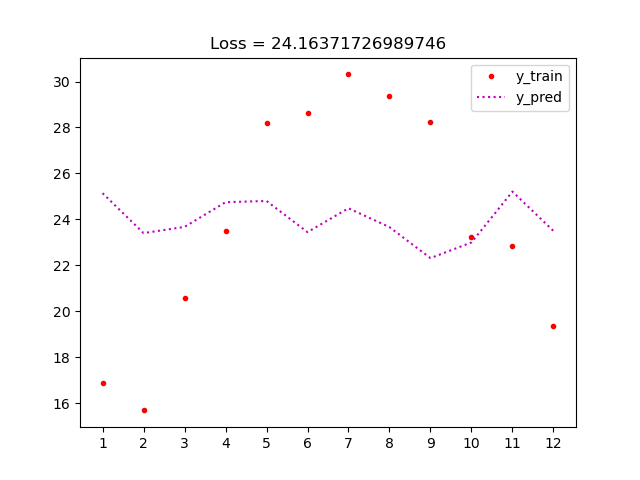
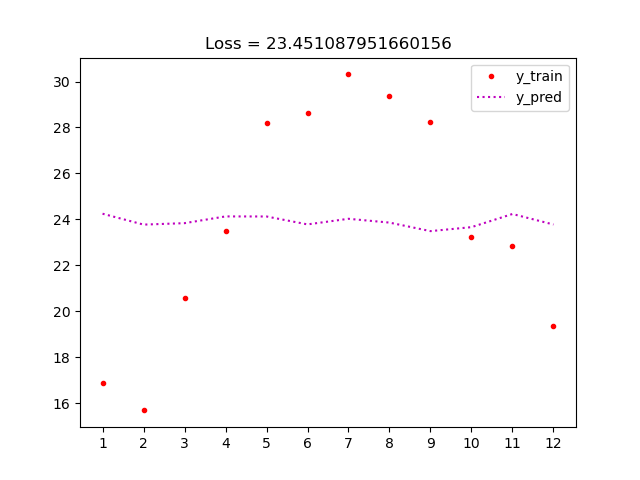
[NEW] Update lambda

diff --git a/weather/forecast.py b/weather/forecast.py
@@ -62,9 +62,8 @@ class Forcast:
         _list = [[_rand] for _ in range(len(self.train_x))]
         b = tf.Variable(_list, dtype=float)  # 12 x 1
 
-        _lambda = 1e-1
         optimizer = tf.optimizers.SGD(1e-7)
-
+        _lambda = 1e-2
         for _iter in range(10000):
             with tf.GradientTape() as tape:
                 y_hat = tf.add_n([tf.matmul(tf.pow(self.train_x, 2), w1), tf.matmul(self.train_x, w2), b])
@@ -73,21 +72,56 @@ class Forcast:
                     _lambda * tf.reduce_sum(tf.pow(w2, 2)) / (tf.reduce_sum(tf.pow(w1, 2)) + tf.reduce_sum(tf.pow(w2, 2)))
             gradients = tape.gradient(loss, [w1, w2, b])
             optimizer.apply_gradients(zip(gradients, [w1, w2, b]))
-
         self.y_pred1 = tf.add_n([tf.matmul(tf.pow(self.train_x, 2), w1), tf.matmul(self.train_x, w2), b])
         self.y_pred2 = tf.add_n([tf.matmul(tf.pow(self.test_x, 2), w1), tf.matmul(self.test_x, w2), b])
+
+        # _range = [float('1e{}'.format(exp)) for exp in np.linspace(-3,2,6, dtype=int)]
+        # for index, _lambda in enumerate(_range):
+        #     for _iter in range(10000):
+        #         with tf.GradientTape() as tape:
+        #             y_hat = tf.add_n([tf.matmul(tf.pow(self.train_x, 2), w1), tf.matmul(self.train_x, w2), b])
+        #             loss = tf.reduce_mean(tf.pow(y_hat - self.train_y, 2)) + \
+        #                 _lambda * tf.reduce_sum(tf.pow(w1, 2)) / (tf.reduce_sum(tf.pow(w1, 2)) + tf.reduce_sum(tf.pow(w2, 2))) + \
+        #                 _lambda * tf.reduce_sum(tf.pow(w2, 2)) / (tf.reduce_sum(tf.pow(w1, 2)) + tf.reduce_sum(tf.pow(w2, 2)))
+        #         gradients = tape.gradient(loss, [w1, w2, b])
+        #         optimizer.apply_gradients(zip(gradients, [w1, w2, b]))
+
+        #     self.y_pred1 = tf.add_n([tf.matmul(tf.pow(self.train_x, 2), w1), tf.matmul(self.train_x, w2), b])
+        #     self.y_pred2 = tf.add_n([tf.matmul(tf.pow(self.test_x, 2), w1), tf.matmul(self.test_x, w2), b])
+
+        #     if index == 0:
+        #         plt.plot(np.arange(1, 13), self.y_pred1, 'r:', label='lambda_{}'.format(_lambda))
+        #     if index == 1:
+        #         plt.plot(np.arange(1, 13), self.y_pred1, 'g:', label='lambda_{}'.format(_lambda))
+        #     if index == 2:
+        #         plt.plot(np.arange(1, 13), self.y_pred1, 'b:', label='lambda_{}'.format(_lambda))
+        #     if index == 3:
+        #         plt.plot(np.arange(1, 13), self.y_pred1, 'c:', label='lambda_{}'.format(_lambda))
+        #     if index == 4:
+        #         plt.plot(np.arange(1, 13), self.y_pred1, 'y:', label='lambda_{}'.format(_lambda))
+        #     if index == 5:
+        #         plt.plot(np.arange(1, 13), self.y_pred1, 'm:', label='lambda_{}'.format(_lambda))
+
+        #     loss = tf.reduce_mean(tf.pow(self.y_pred1 - self.train_y, 2))
+        #     print('Loss = {} with lambda {}'.format(loss, _lambda))
+
+        # plt.xticks(range(1, 13))
+        # plt.legend()
+        # plt.savefig(os.path.join(os.path.dirname(__file__), 'lambda.png'))
+        # plt.close()
 
     def draw(self, tag, _file):
         """Draw the figure"""
         if tag == 'train':
             plt.plot(np.arange(1, 13), self.train_y, 'r.', label='y_train')
             plt.plot(np.arange(1, 13), self.y_pred1, 'm:', label='y_pred')
-        if tag == 'test':
+            loss = tf.reduce_mean(tf.pow(self.y_pred1 - self.train_y, 2))
+        elif tag == 'test':
             plt.plot(np.arange(1, 13), self.real_y, 'bD', label='y_real')
             plt.plot(np.arange(1, 13), self.y_pred2, 'm:', label='y_pred')
+            loss = tf.reduce_mean(tf.pow(self.y_pred2 - self.real_y, 2))
         plt.xticks(range(1, 13))
-        plt.title('Loss = {}'.format(tf.reduce_mean(tf.pow(self.y_pred1 - self.train_y, 2))))
+        plt.title('Loss = {}'.format(loss))
         plt.legend()
-        _file = os.path.join(os.path.dirname(__file__), _file)
-        plt.savefig(_file)
-        plt.show()
+        plt.savefig(os.path.join(os.path.dirname(__file__), _file))
+        plt.close()

diff --git a/main.py b/main.py
@@ -3,53 +3,6 @@
 from weather import Forcast
 # from classification import Income
 
-# def test():
-#     X = np.random.rand(10).astype(np.float32)
-#     Y = X * 10 + 5
-#     W = tf.Variable(tf.random.normal([1]))
-#     b = tf.Variable(tf.zeros([1]))
-#     optimizer = tf.optimizers.Adagrad(0.1)
-#     for step in range(1, 1000 + 1):
-#         # Run the optimization to update W and b values.
-#         with tf.GradientTape() as tape:
-#             y_hat = W * X + b
-#             loss = tf.reduce_sum(tf.pow(y_hat-Y, 2)) / (2 * 10)
-#         gradients = tape.gradient(loss, [W, b])
-#         optimizer.apply_gradients(zip(gradients, [W, b]))
-#         if step % 10 == 0:
-#             print("step: %i, loss: %f, W: %f, b: %f" %
-#                   (step, loss, W.numpy(), b.numpy()))
-
-
-# def f(x):
-#     return x ** 2 * 2 + x * 3 + 4
-
-
-# def test():
-#     x = tf.constant([[2]], dtype=float)
-#     y = f(x)
-#     w1 = tf.Variable([np.random.rand(1)], dtype=float)
-#     w2 = tf.Variable([np.random.rand(1)], dtype=float)
-#     b = tf.Variable([np.random.rand(1)], dtype=float)
-
-#     optimizer = tf.optimizers.Adagrad(0.1)
-#     for _iter in range(10000):
-#         with tf.GradientTape() as tape:
-#             y_hat = tf.add_n(
-#                 [tf.matmul(tf.pow(x, 2), w1), tf.matmul(x, w2), b])
-#             loss = tf.reduce_mean(tf.reduce_sum(tf.pow(y - y_hat, 2)))
-
-#         gradients = tape.gradient(loss, [w1, w2, b])
-#         optimizer.apply_gradients(zip(gradients, [w1, w2, b]))
-
-#     m = tf.constant([[7]], dtype=float)
-#     y = f(m)
-#     y_pred = tf.add_n(
-#         [tf.matmul(tf.pow(m, 2), w1), tf.matmul(m, w2), b])
-#     print("y_real = {}, y_pred = {}".format(
-#         float(y.numpy()), float(y_pred.numpy())))
-
-
 if __name__ == "__main__":
     AGENT = Forcast()
     AGENT.read_train()
